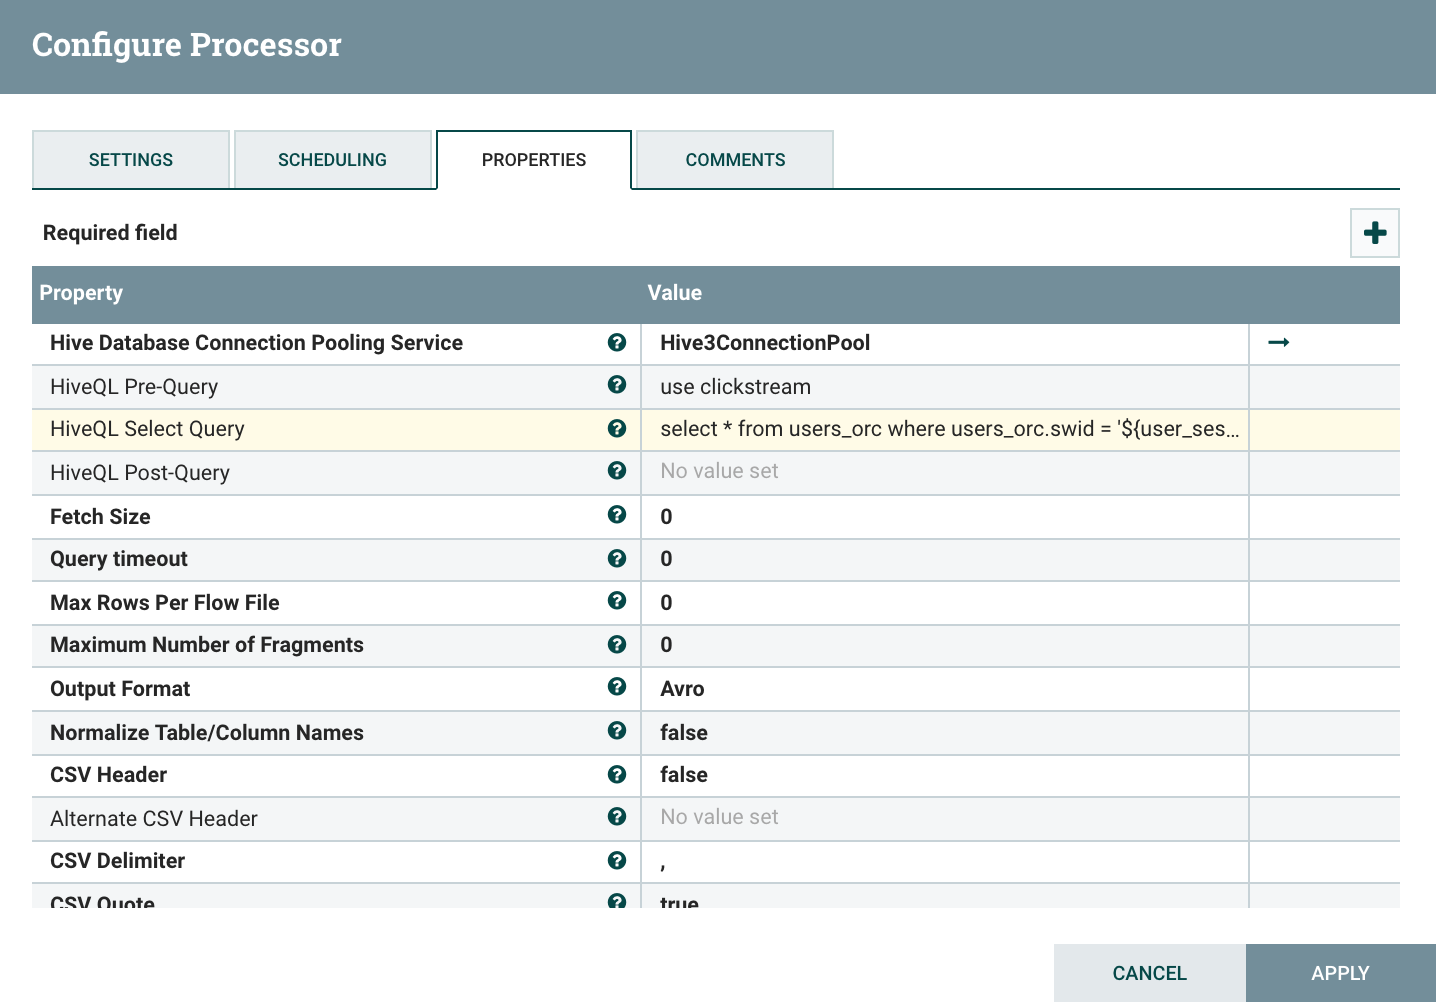
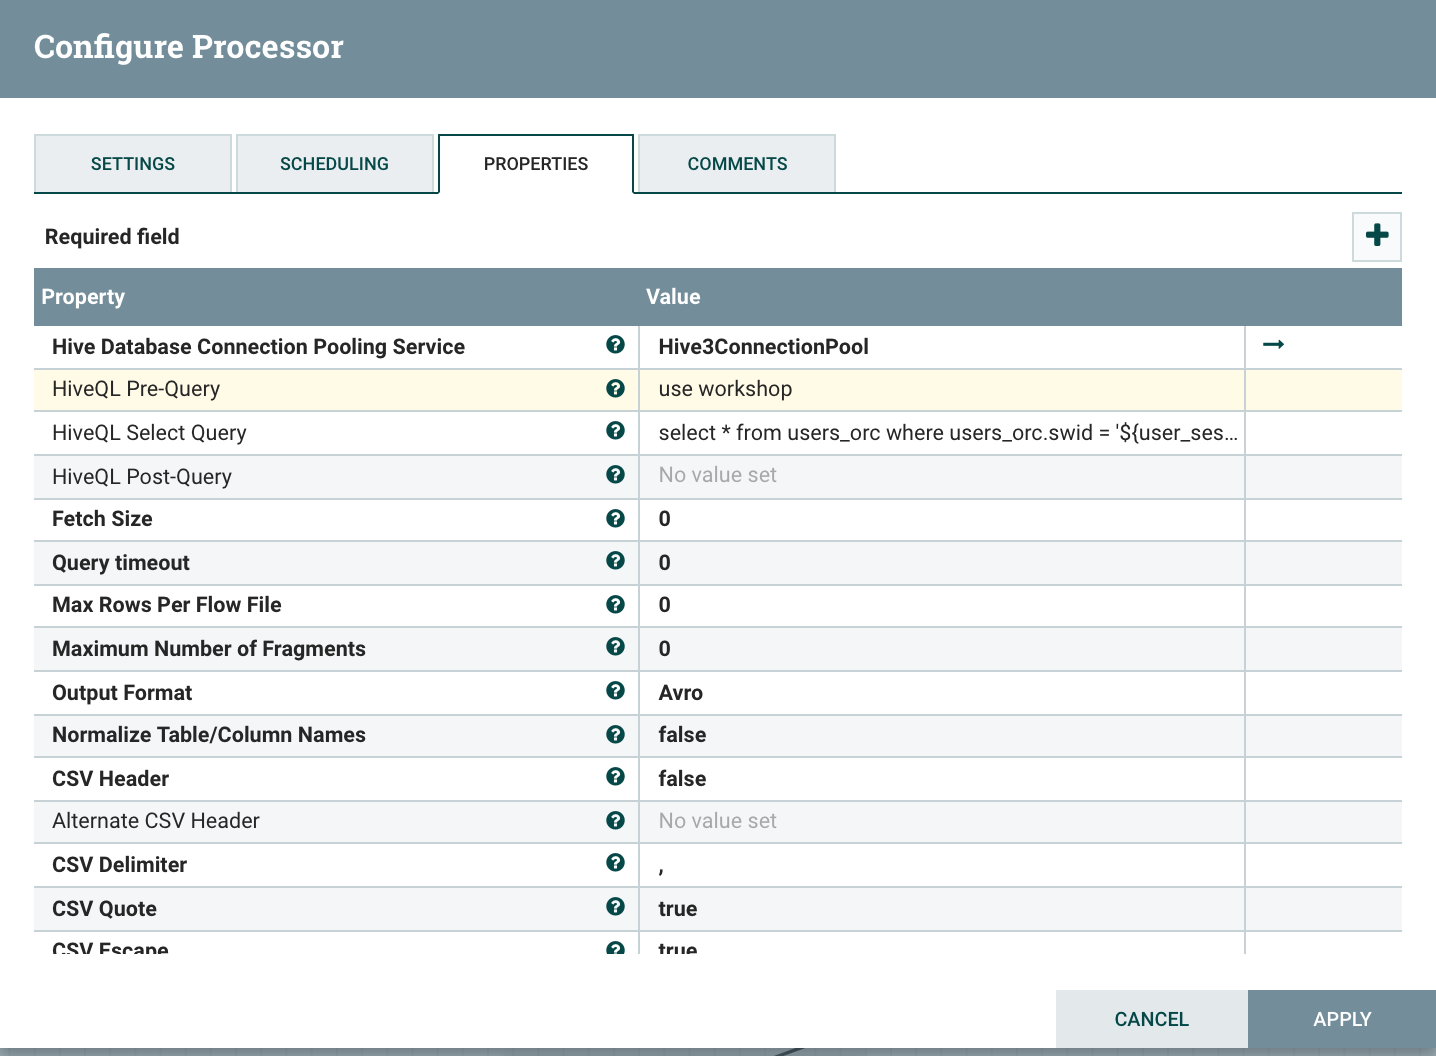
modified:   README.md 	modified:   images/Hive3QL-1-config.png.png 	new file:   images/zeppelin_create_note.png.png 	modified:   sql/zeppelin_scripts.txt

diff --git a/README.md b/README.md
@@ -665,44 +665,50 @@ You can check if the retention was set properly:
 
 ```./bin/kafka-configs.sh --zookeeper demo.cloudera.com:2181 --describe --entity-type topics --entity-name clickstream_events```
 
+********
 ## TODO: Ingest clickstream_events into Druid
 
 Visit [Zeppelin](http://demo.cloudera.com:9995/) and log in as admin (password: admin)
 
-Create a new note(book) called Demo (use jdbc as default interpreter)
+Create a new note(book) called Demo (use hive as default interpreter)
 
-![Zeppelin note creation](images/zeppelin_create_note.png)
+![Zeppelin note creation](images/zeppelin_create_note.png.png)
 
-Add the interpreter to connect to Hive LLAP
-
-```%jdbc(hive_interactive)```
 
 Create a database named workshop and run the SQL
 
 ```SQL
-CREATE DATABASE workshop;
+CREATE DATABASE workshop
 ```
 
 Create the Hive table backed by Druid storage where the social medias sentiment analysis will be streamed into
 
 ```SQL
-CREATE EXTERNAL TABLE workshop.meetup_comment_sentiment (
+CREATE EXTERNAL TABLE clickstream_events (
 `__time` timestamp,
-`event` string,
-`member` string,
-`comment` string,
-`sentiment` string
+clickstream_id string,
+user_session_id string,
+ipaddress string,
+ts string,
+gender string,
+bday string,
+is_purchased string,
+is_page_errored string,
+url string,
+city string,
+state string,
+country string
 )
 STORED BY 'org.apache.hadoop.hive.druid.DruidStorageHandler'
 TBLPROPERTIES (
 "kafka.bootstrap.servers" = "demo.cloudera.com:6667",
-"kafka.topic" = "meetup_comment_ws",
+"kafka.topic" = "clickstream_events",
 "druid.kafka.ingestion.useEarliestOffset" = "true",
 "druid.kafka.ingestion.maxRowsInMemory" = "5",
 "druid.kafka.ingestion.startDelay" = "PT1S",
 "druid.kafka.ingestion.period" = "PT1S",
 "druid.kafka.ingestion.consumer.retries" = "2"
-);
+)
 ```
 
 ![Zeppelin create DB and table](images/zeppelin_create_db_and_table.png)
@@ -710,7 +716,7 @@ TBLPROPERTIES (
 Start Druid indexing
 
 ```SQL
-ALTER TABLE workshop.meetup_comment_sentiment SET TBLPROPERTIES('druid.kafka.ingestion' = 'START');
+ALTER TABLE workshop.meetup_comment_sentiment SET TBLPROPERTIES('druid.kafka.ingestion' = 'START')
 ```
 
 Verify that supervisor and indexing task are running from the [Druid overload console](http://demo.cloudera.com:8090/console.html)
